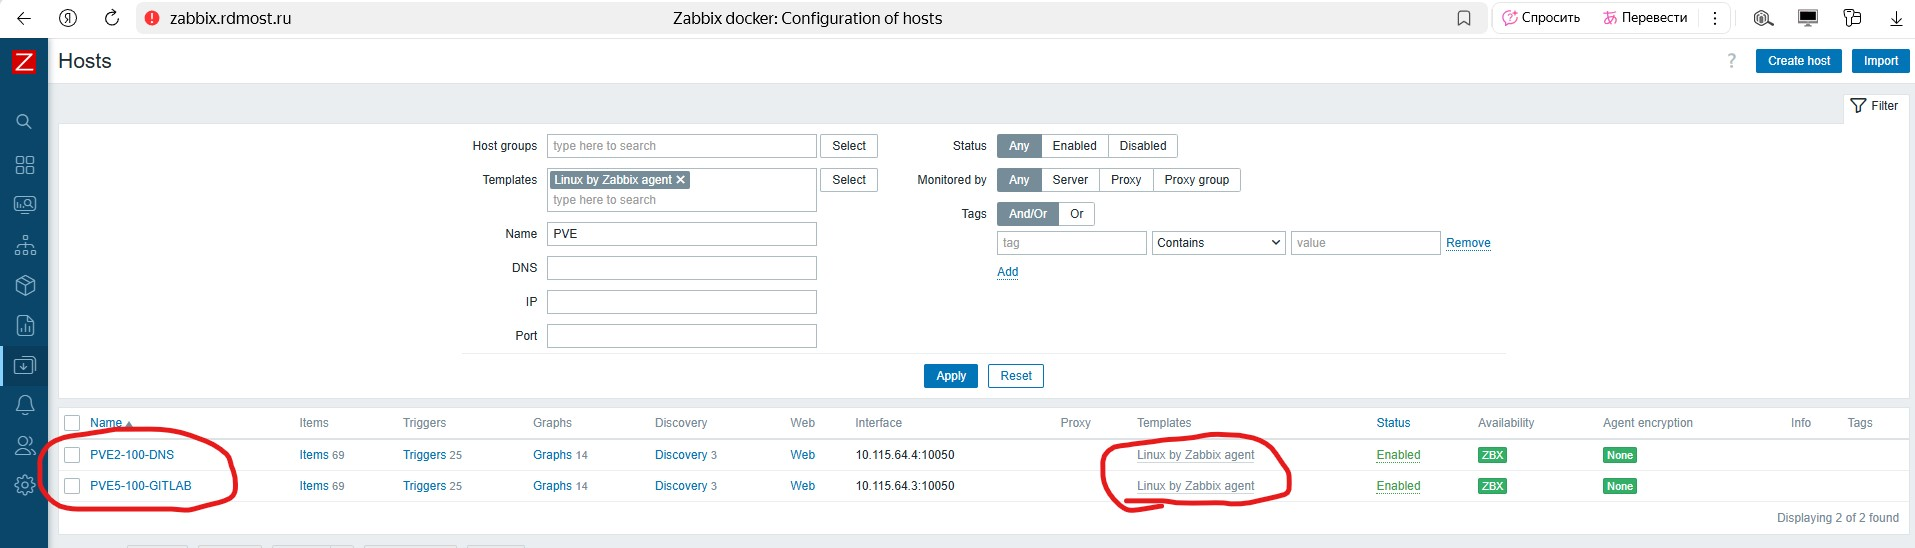
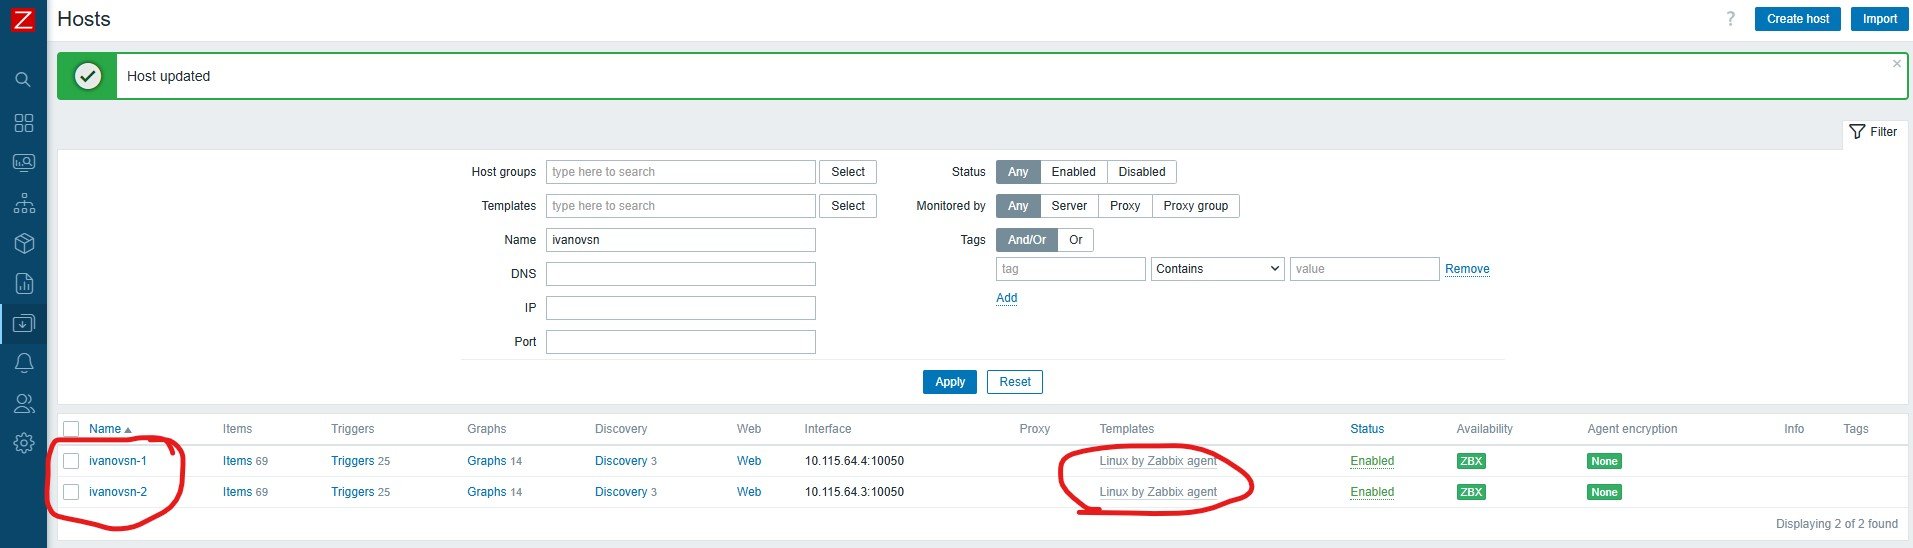
Доработка

diff --git a/README.md b/README.md
@@ -88,20 +88,20 @@
 !["Привязка Zabbix агента к Zabbix серверу"](https://github.com/radiomost/zabbix-part2/blob/main/img/img-2.jpg)
 
 
-`Далее я создал два хоста в Zabbix 	"PVE2-100-DNS" и "PVE5-100-GITLAB" для мониторига со стандартным шаблоном сбора логов "Linux by Zabbix Agent"`
+`Далее я создал два хоста в Zabbix 	"ivanovsn-1" и "ivanovsn-2" для мониторига со стандартным шаблоном сбора логов "Linux by Zabbix Agent"`
 
 ![""](https://github.com/radiomost/zabbix-part2/blob/main/img/img-4.jpg)
 
-`На следующих излображениях видно, что данные с применением шаблона "Linux by Zabbix Agent" приходят от двух хостов "PVE2-100-DNS" и "PVE5-100-GITLAB".`
+`На следующих излображениях видно, что данные с применением шаблона "Linux by Zabbix Agent" приходят от двух хостов "ivanovsn-1" и "ivanovsn-2".`
 
 ![""](https://github.com/radiomost/zabbix-part2/blob/main/img/img-5.jpg)
 ![""](https://github.com/radiomost/zabbix-part2/blob/main/img/img-6.jpg)
 
-`Подключен созданный ранее шаблон "Задание 1" к "PVE2-100-DNS" и "PVE5-100-GITLAB". Хосты активны.`
+`Подключен созданный ранее шаблон "Задание 1" к "ivanovsn-1" и "ivanovsn-2". Хосты активны.`
 
 ![""](https://github.com/radiomost/zabbix-part2/blob/main/img/img-7.jpg)
 
-`Мы видим, что по шаблону "Задание 1" так же поступают данные от "PVE2-100-DNS" и "PVE5-100-GITLAB".`
+`Мы видим, что по шаблону "Задание 1" так же поступают данные от "ivanovsn-1" и "ivanovsn-2".`
 
 ![""](https://github.com/radiomost/zabbix-part2/blob/main/img/img-8.jpg)
 
